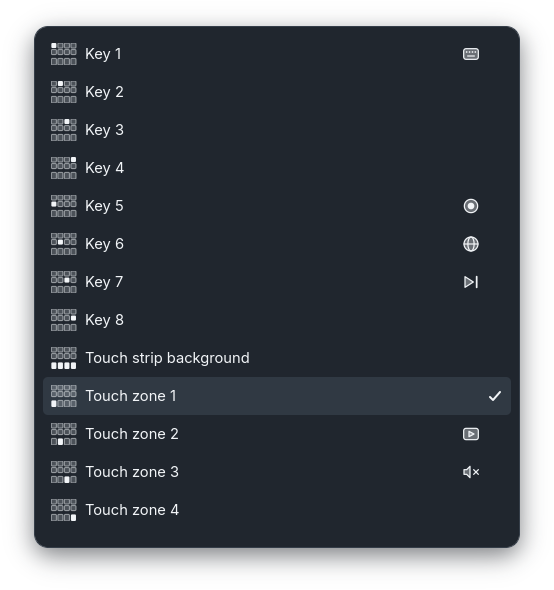
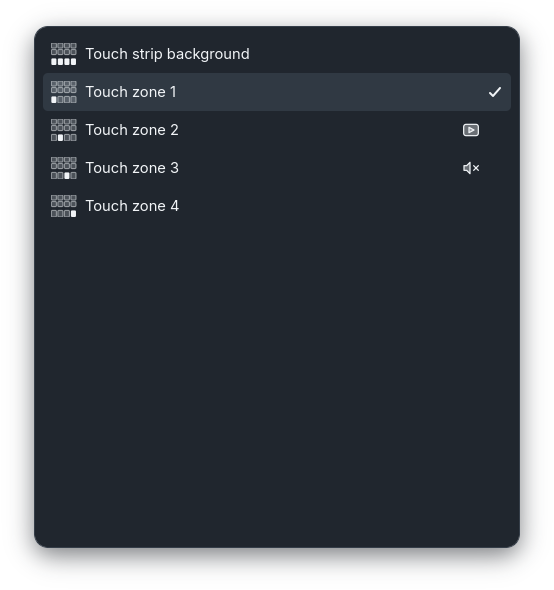
update webpage

diff --git a/docs/docs.html b/docs/docs.html
@@ -562,8 +562,8 @@ cd sdeck-plus
             </article>
             <article class="card wide">
               <h4>Background images</h4>
-              <p>For a key, right-click and use <strong>Image…</strong> or <strong>Clear image</strong> in its text/image popover. For the strip and its zones, pick a target in <strong>Artwork target (active layer)</strong> under Appearance, then choose or clear its image. There are thirteen targets: eight keys,
-                 the touch-strip background and four touch zones. Clicking a key or zone selects its target; clicking a dial selects only its binding. PNG, GIF and any format
+              <p>For a key, right-click and use <strong>Image…</strong> or <strong>Clear image</strong> in its text/image popover. For the strip and its zones, pick a target in <strong>Artwork target (active layer)</strong> under Appearance, then choose or clear its image. The picker lists five targets: the touch-strip
+                 background and four touch zones. Clicking a zone selects its target; clicking a dial selects only its binding. PNG, GIF and any format
                  supported by the installed GdkPixbuf loaders work; GIFs are sent as a still image because the hardware upload format is JPEG.
                  Images are center-cropped and sent as 120 × 120 (keys), 800 × 100 (strip) or 200 × 100 (zone) JPEGs; the strip background and zones are layered.</p>
               <p>Images are copied into the data directory, so originals can be moved or deleted. Artwork is independent per layer: switching layers replaces the device's

diff --git a/CHANGELOG.md b/CHANGELOG.md
@@ -8,6 +8,10 @@ tagged yet, so everything below is unreleased (package version `0.1.0`).
 
 ### Changed
 
+- **Artwork target picker lists only touch targets.** Appearance now offers the
+  touch-strip background and the four touch zones; key images use the key's
+  right-click popover. The documentation text and its screenshot match.
+
 - Documentation site: regenerated all native screenshots for the current interface
   and added captures of the timer countdown on a key and the Hold 2 seconds editor.
 
